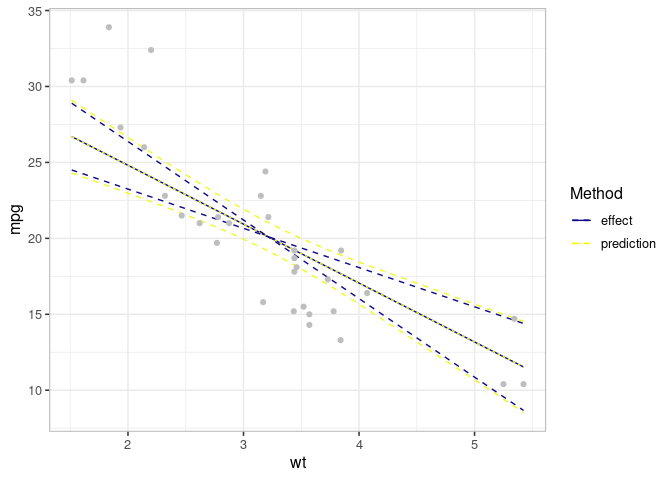
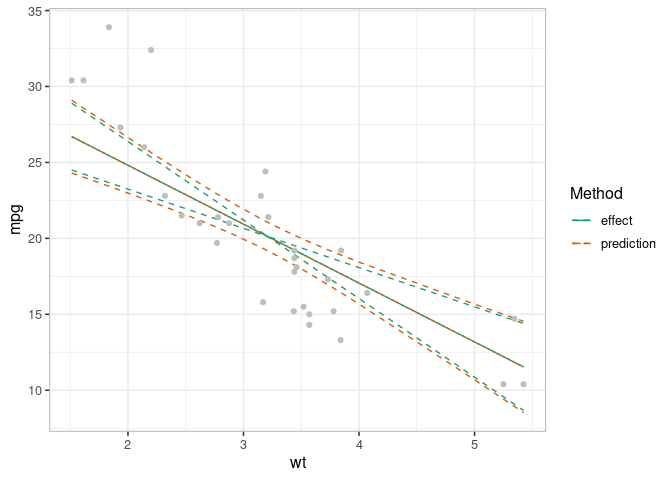
Plot aesthetics

diff --git a/docs/reference/varpred.html b/docs/reference/varpred.html
@@ -202,7 +202,11 @@
 <span class="r-in"><span class="va">ef_observed</span> <span class="op">&lt;-</span> <span class="fu">varpred</span><span class="op">(</span><span class="va">mod</span>, <span class="st">"age"</span>, steps<span class="op">=</span><span class="va">steps</span>, bias.adjust<span class="op">=</span><span class="st">"observed"</span>, modelname<span class="op">=</span><span class="st">"observed-value"</span><span class="op">)</span></span>
 <span class="r-in"><span class="co">## Combine all the effect estimates</span></span>
 <span class="r-in"><span class="va">ef</span> <span class="op">&lt;-</span> <span class="fu"><a href="combinevarpred.html">combinevarpred</a></span><span class="op">(</span><span class="fu"><a href="https://rdrr.io/r/base/list.html" class="external-link">list</a></span><span class="op">(</span><span class="va">ef_mean</span>, <span class="va">ef_observed</span><span class="op">)</span><span class="op">)</span></span>
-<span class="r-in"><span class="fu"><a href="https://rdrr.io/r/graphics/plot.default.html" class="external-link">plot</a></span><span class="op">(</span><span class="va">ef</span><span class="op">)</span></span>
+<span class="r-in"><span class="fu"><a href="https://rdrr.io/r/base/print.html" class="external-link">print</a></span><span class="op">(</span><span class="fu"><a href="https://rdrr.io/r/graphics/plot.default.html" class="external-link">plot</a></span><span class="op">(</span><span class="va">ef</span><span class="op">)</span></span>
+<span class="r-in">  <span class="op">+</span> <span class="fu"><a href="https://ggplot2.tidyverse.org/reference/scale_brewer.html" class="external-link">scale_color_brewer</a></span><span class="op">(</span>palette <span class="op">=</span> <span class="st">"Dark2"</span><span class="op">)</span></span>
+<span class="r-in"><span class="op">)</span></span>
+<span class="r-msg co"><span class="r-pr">#&gt;</span> Scale for 'colour' is already present. Adding another scale for 'colour',</span>
+<span class="r-msg co"><span class="r-pr">#&gt;</span> which will replace the existing scale.</span>
 <span class="r-plt img"><img src="varpred-1.png" alt="" width="700" height="433"></span>
 <span class="r-in"></span>
 <span class="r-in"><span class="co"># Prediction plots</span></span>
@@ -213,7 +217,11 @@
 <span class="r-in"><span class="co">## Combine all the prediction estimates</span></span>
 <span class="r-in"><span class="co">### With plotit=TRUE no need to plot</span></span>
 <span class="r-in"><span class="va">pred</span> <span class="op">&lt;-</span> <span class="fu"><a href="combinevarpred.html">combinevarpred</a></span><span class="op">(</span><span class="fu"><a href="https://rdrr.io/r/base/list.html" class="external-link">list</a></span><span class="op">(</span><span class="va">pred_mean</span>, <span class="va">pred_observed</span><span class="op">)</span>, plotit<span class="op">=</span><span class="cn">TRUE</span><span class="op">)</span></span>
-<span class="r-in"><span class="fu"><a href="https://rdrr.io/r/base/print.html" class="external-link">print</a></span><span class="op">(</span><span class="va">pred</span><span class="op">)</span></span>
+<span class="r-in"><span class="fu"><a href="https://rdrr.io/r/base/print.html" class="external-link">print</a></span><span class="op">(</span><span class="va">pred</span></span>
+<span class="r-in">  <span class="op">+</span> <span class="fu"><a href="https://ggplot2.tidyverse.org/reference/scale_brewer.html" class="external-link">scale_color_brewer</a></span><span class="op">(</span>palette <span class="op">=</span> <span class="st">"Dark2"</span><span class="op">)</span></span>
+<span class="r-in"><span class="op">)</span></span>
+<span class="r-msg co"><span class="r-pr">#&gt;</span> Scale for 'colour' is already present. Adding another scale for 'colour',</span>
+<span class="r-msg co"><span class="r-pr">#&gt;</span> which will replace the existing scale.</span>
 <span class="r-plt img"><img src="varpred-2.png" alt="" width="700" height="433"></span>
 <span class="r-in"></span>
 </code></pre></div>

diff --git a/docs/reference/combinevarpred.html b/docs/reference/combinevarpred.html
@@ -127,8 +127,10 @@
 <span class="r-in"><span class="va">ef_observed</span> <span class="op">&lt;-</span> <span class="fu"><a href="varpred.html">varpred</a></span><span class="op">(</span><span class="va">mod</span>, <span class="st">"age"</span>, steps<span class="op">=</span><span class="va">steps</span>, bias.adjust<span class="op">=</span><span class="st">"observed"</span>, modelname<span class="op">=</span><span class="st">"observed-value"</span><span class="op">)</span></span>
 <span class="r-in"><span class="co">## Combine all the effect estimates</span></span>
 <span class="r-in"><span class="va">ef</span> <span class="op">&lt;-</span> <span class="fu">combinevarpred</span><span class="op">(</span><span class="fu"><a href="https://rdrr.io/r/base/list.html" class="external-link">list</a></span><span class="op">(</span><span class="va">ef_mean</span>, <span class="va">ef_observed</span><span class="op">)</span><span class="op">)</span></span>
-<span class="r-in"><span class="fu"><a href="https://rdrr.io/r/graphics/plot.default.html" class="external-link">plot</a></span><span class="op">(</span><span class="va">ef</span><span class="op">)</span></span>
-<span class="r-plt img"><img src="combinevarpred-1.png" alt="" width="700" height="433"></span>
+<span class="r-in"><span class="fu"><a href="https://rdrr.io/r/base/print.html" class="external-link">print</a></span><span class="op">(</span><span class="fu"><a href="https://rdrr.io/r/graphics/plot.default.html" class="external-link">plot</a></span><span class="op">(</span><span class="va">ef</span><span class="op">)</span></span>
+<span class="r-in">  <span class="op">+</span> <span class="fu">scale_color_brewer</span><span class="op">(</span>palette <span class="op">=</span> <span class="st">"Dark2"</span><span class="op">)</span></span>
+<span class="r-in"><span class="op">)</span></span>
+<span class="r-err co"><span class="r-pr">#&gt;</span> <span class="error">Error in scale_color_brewer(palette = "Dark2"):</span> could not find function "scale_color_brewer"</span>
 <span class="r-in"></span>
 <span class="r-in"><span class="co"># Prediction plots</span></span>
 <span class="r-in"><span class="co">## Mean-based</span></span>
@@ -138,8 +140,10 @@
 <span class="r-in"><span class="co">## Combine all the prediction estimates</span></span>
 <span class="r-in"><span class="co">### With plotit=TRUE no need to plot</span></span>
 <span class="r-in"><span class="va">pred</span> <span class="op">&lt;-</span> <span class="fu">combinevarpred</span><span class="op">(</span><span class="fu"><a href="https://rdrr.io/r/base/list.html" class="external-link">list</a></span><span class="op">(</span><span class="va">pred_mean</span>, <span class="va">pred_observed</span><span class="op">)</span>, plotit<span class="op">=</span><span class="cn">TRUE</span><span class="op">)</span></span>
-<span class="r-in"><span class="fu"><a href="https://rdrr.io/r/base/print.html" class="external-link">print</a></span><span class="op">(</span><span class="va">pred</span><span class="op">)</span></span>
-<span class="r-plt img"><img src="combinevarpred-2.png" alt="" width="700" height="433"></span>
+<span class="r-in"><span class="fu"><a href="https://rdrr.io/r/base/print.html" class="external-link">print</a></span><span class="op">(</span><span class="va">pred</span></span>
+<span class="r-in">  <span class="op">+</span> <span class="fu">scale_color_brewer</span><span class="op">(</span>palette <span class="op">=</span> <span class="st">"Dark2"</span><span class="op">)</span></span>
+<span class="r-in"><span class="op">)</span></span>
+<span class="r-err co"><span class="r-pr">#&gt;</span> <span class="error">Error in scale_color_brewer(palette = "Dark2"):</span> could not find function "scale_color_brewer"</span>
 <span class="r-in"></span>
 </code></pre></div>
     </div>

diff --git a/docs/index.html b/docs/index.html
@@ -113,7 +113,9 @@
 <p><img src="reference/figures/simple_example-1.png"></p>
 <div class="sourceCode" id="cb3"><pre class="sourceCode R"><code class="sourceCode r"><span id="cb3-1"><a href="#cb3-1"></a><span class="co">## Prediction</span></span>
 <span id="cb3-2"><a href="#cb3-2"></a>pred &lt;-<span class="st"> </span><span class="kw">varpred</span>(mod, <span class="st">"wt"</span>, <span class="dt">isolate=</span><span class="ot">FALSE</span>, <span class="dt">modelname=</span><span class="st">"prediction"</span>)</span>
-<span id="cb3-3"><a href="#cb3-3"></a><span class="kw">plot</span>(pred)</span></code></pre></div>
+<span id="cb3-3"><a href="#cb3-3"></a><span class="kw">print</span>(<span class="kw">plot</span>(pred)</span>
+<span id="cb3-4"><a href="#cb3-4"></a>    <span class="op">+</span><span class="st"> </span><span class="kw">scale_color_brewer</span>(<span class="dt">palette =</span> <span class="st">"Dark2"</span>)</span>
+<span id="cb3-5"><a href="#cb3-5"></a>)</span></code></pre></div>
 <p><img src="reference/figures/simple_example-2.png"></p>
 <div class="sourceCode" id="cb4"><pre class="sourceCode R"><code class="sourceCode r"><span id="cb4-1"><a href="#cb4-1"></a><span class="co">## Compare effect and prediction</span></span>
 <span id="cb4-2"><a href="#cb4-2"></a>all_v &lt;-<span class="st"> </span><span class="kw">combinevarpred</span>(<span class="kw">list</span>(ef, pred))</span>
@@ -123,7 +125,8 @@
 <span id="cb4-6"><a href="#cb4-6"></a><span class="kw">print</span>(p1</span>
 <span id="cb4-7"><a href="#cb4-7"></a>    <span class="op">+</span><span class="st"> </span><span class="kw">geom_point</span>(<span class="dt">data=</span>mtcars, <span class="kw">aes</span>(<span class="dt">x=</span>wt, <span class="dt">y=</span>mpg), <span class="dt">col=</span><span class="st">"grey"</span>)</span>
 <span id="cb4-8"><a href="#cb4-8"></a>    <span class="op">+</span><span class="st"> </span><span class="kw">labs</span>(<span class="dt">colour=</span><span class="st">"Method"</span>, <span class="dt">linetype=</span><span class="st">"Method"</span>)</span>
-<span id="cb4-9"><a href="#cb4-9"></a>)</span></code></pre></div>
+<span id="cb4-9"><a href="#cb4-9"></a>    <span class="op">+</span><span class="st"> </span><span class="kw">scale_color_brewer</span>(<span class="dt">palette =</span> <span class="st">"Dark2"</span>)</span>
+<span id="cb4-10"><a href="#cb4-10"></a>)</span></code></pre></div>
 <p><img src="reference/figures/simple_example-3.png"></p>
 </div>
 </div>

diff --git a/README.md b/README.md
@@ -78,7 +78,9 @@ We use `mtcars` data to show outcome plots:
 
     ## Prediction
     pred <- varpred(mod, "wt", isolate=FALSE, modelname="prediction")
-    plot(pred)
+    print(plot(pred)
+        + scale_color_brewer(palette = "Dark2")
+    )
 
 ![](man/figures/simple_example-2.png)
 
@@ -91,6 +93,7 @@ We use `mtcars` data to show outcome plots:
     print(p1
         + geom_point(data=mtcars, aes(x=wt, y=mpg), col="grey")
         + labs(colour="Method", linetype="Method")
+        + scale_color_brewer(palette = "Dark2")
     )
 
 ![](man/figures/simple_example-3.png)
